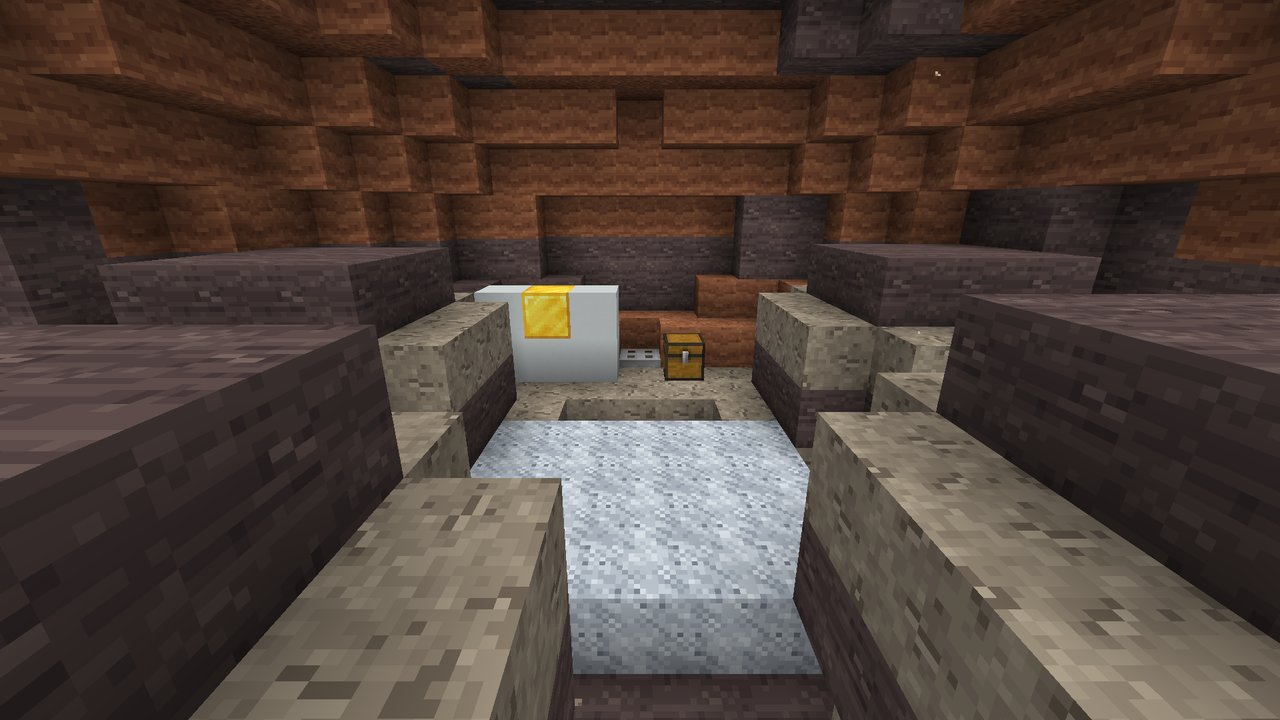
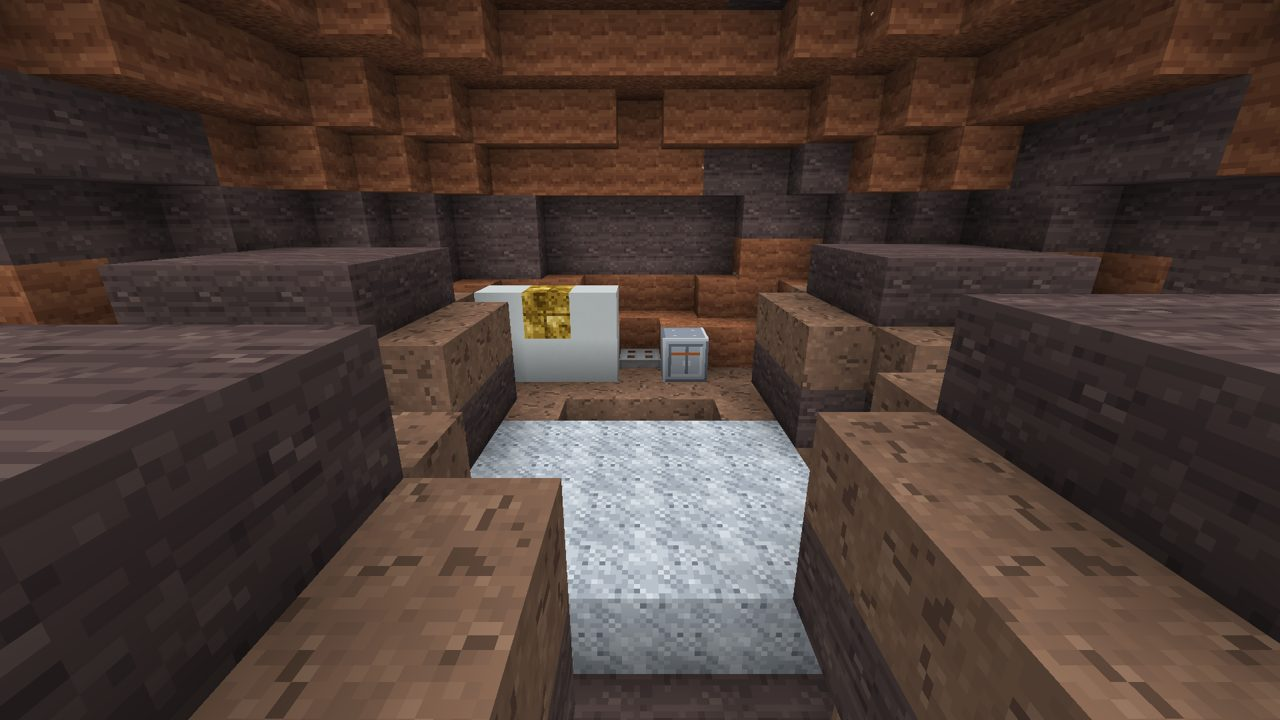
Mars riverbed cave and lava tubes: survey gear and lockers
The riverbed probe's data vaults are supply locker and its wreck wears foil cladding; the old survey team's tripod floodlights stand round the chamber. Lava tubes keep an earlier survey's tripod floodlights every few nodes with cable laid between them, and a chain rope down the first skylight.

Changed region(s): [[0.0, 0.0917, 1.0, 1.0], [0.7812, 0.0917, 1.0, 0.4278], [0.5938, 0.0, 0.75, 0.0917]]

diff --git a/src/main/java/com/pizzaparker07/spacebreaker/content/mars/dungeon/RiverbedCavePiece.java b/src/main/java/com/pizzaparker07/spacebreaker/content/mars/dungeon/RiverbedCavePiece.java
@@ -4,6 +4,7 @@ import com.pizzaparker07.spacebreaker.content.mars.MarsModule;
 import com.pizzaparker07.spacebreaker.content.mars.entity.CanyonLurker;
 import com.pizzaparker07.spacebreaker.content.mars.entity.MarsEntities;
 import net.minecraft.core.BlockPos;
+import net.minecraft.core.Direction;
 import net.minecraft.nbt.CompoundTag;
 import net.minecraft.util.Mth;
 import net.minecraft.util.RandomSource;
@@ -276,7 +277,7 @@ public class RiverbedCavePiece extends StructurePiece {
             for (int dy = 0; dy < 2; dy++) {
                 p.set(wx + dx, floor + dy, wz);
                 if (box.isInside(p)) {
-                    level.setBlock(p, dy == 1 && dx == 1 ? s(Blocks.GOLD_BLOCK) : s(Blocks.WHITE_CONCRETE), Block.UPDATE_CLIENTS);
+                    level.setBlock(p, dy == 1 && dx == 1 ? s(com.pizzaparker07.spacebreaker.content.belt.LanderBlocks.GOLD_FOIL_CLADDING.get()) : s(Blocks.WHITE_CONCRETE), Block.UPDATE_CLIENTS);
                 }
             }
         }
@@ -290,16 +291,29 @@ public class RiverbedCavePiece extends StructurePiece {
         }
         chest(level, box, cx - 1, floor, cz + 5);
         chest(level, box, cx + 2, floor, cz - 5);
+        // the survey team's lights, still on their tripods round the chamber, and the cable between them
+        for (int[] l : new int[][]{{-4, -3}, {4, 2}, {-2, 6}}) {
+            int lx = cx + l[0];
+            int lz = cz + l[1];
+            p.set(lx, floor, lz);
+            if (box.isInside(p) && level.getBlockState(p).isAir()) {
+                level.setBlock(p, s(Blocks.IRON_BARS), Block.UPDATE_CLIENTS);
+                p.set(lx, floor + 1, lz);
+                level.setBlock(p, s(com.pizzaparker07.spacebreaker.content.rocketry.base.BaseBlocks.FLOODLIGHT.get())
+                        .setValue(net.minecraft.world.level.block.DirectionalBlock.FACING, Direction.UP), Block.UPDATE_CLIENTS);
+            }
+        }
     }
 
+    /** The probe's data vault: a supply locker, its doors to the open chamber. */
     private void chest(WorldGenLevel level, BoundingBox box, int x, int y, int z) {
         BlockPos pos = new BlockPos(x, y, z);
         if (!box.isInside(pos)) {
             return;
         }
-        level.setBlock(pos, s(Blocks.CHEST), Block.UPDATE_CLIENTS);
-        if (level.getBlockEntity(pos) instanceof net.minecraft.world.level.block.entity.ChestBlockEntity chest) {
-            chest.setLootTable(MarsLoot.RIVERBED_PROBE, seed ^ (x * 341873128712L + z));
+        level.setBlock(pos, com.pizzaparker07.spacebreaker.content.dungeons.locker.SupplyLocker.BLOCK.get().defaultBlockState(), Block.UPDATE_CLIENTS);
+        if (level.getBlockEntity(pos) instanceof com.pizzaparker07.spacebreaker.content.dungeons.locker.SupplyLockerBlockEntity locker) {
+            locker.setLootTable(MarsLoot.RIVERBED_PROBE, seed ^ (x * 341873128712L + z));
         }
     }
 

diff --git a/src/main/java/com/pizzaparker07/spacebreaker/content/mars/dungeon/LavaTubePiece.java b/src/main/java/com/pizzaparker07/spacebreaker/content/mars/dungeon/LavaTubePiece.java
@@ -155,6 +155,51 @@ public class LavaTubePiece extends StructurePiece {
                 skylight(level, box, r, i);
             }
         }
+        surveyGear(level, box);
+    }
+
+    /**
+     * An earlier survey's gear, left behind: tripod floodlights every few nodes along the floor with the cable laid
+     * between them, and a rope of chain hanging down the first skylight, the way they came in.
+     */
+    private void surveyGear(WorldGenLevel level, BoundingBox box) {
+        BlockPos.MutableBlockPos p = new BlockPos.MutableBlockPos();
+        int n = nodeCount();
+        for (int i = 2; i < n; i += 4) {
+            int x = nodes[i * 4] + 1;
+            int z = nodes[i * 4 + 2] + 1;
+            int fy = floor(i);
+            p.set(x, fy, z);
+            if (!box.isInside(p) || !level.getBlockState(p).isAir() || level.getBlockState(p.below()).isAir()) {
+                continue;
+            }
+            level.setBlock(p, s(Blocks.IRON_BARS), Block.UPDATE_CLIENTS);
+            p.set(x, fy + 1, z);
+            level.setBlock(p, s(com.pizzaparker07.spacebreaker.content.rocketry.base.BaseBlocks.FLOODLIGHT.get())
+                    .setValue(net.minecraft.world.level.block.DirectionalBlock.FACING, net.minecraft.core.Direction.UP), Block.UPDATE_CLIENTS);
+            // the cable back along the floor toward the previous light
+            if (i >= 4) {
+                int px = nodes[(i - 2) * 4] + 1;
+                int pz = nodes[(i - 2) * 4 + 2] + 1;
+                p.set(px, floor(i - 2), pz);
+                if (box.isInside(p) && level.getBlockState(p).isAir() && !level.getBlockState(p.below()).isAir()) {
+                    level.setBlock(p, s(Blocks.CHAIN).setValue(net.minecraft.world.level.block.ChainBlock.AXIS, net.minecraft.core.Direction.Axis.X), Block.UPDATE_CLIENTS);
+                }
+            }
+        }
+        for (int i = 0; i < n; i++) {
+            if (skylight(i)) {
+                int x = nodes[i * 4] + 2;
+                int z = nodes[i * 4 + 2];
+                for (int y = floor(i) + 3; y <= nodes[i * 4 + 3]; y++) {
+                    p.set(x, y, z);
+                    if (box.isInside(p) && level.getBlockState(p).isAir()) {
+                        level.setBlock(p, s(Blocks.CHAIN), Block.UPDATE_CLIENTS);
+                    }
+                }
+                break;
+            }
+        }
     }
 
     /** A collapsed patch of roof: an open shaft to the surface and a cone of rubble and dust below it. */

diff --git a/src/testmod/java/com/pizzaparker07/spacebreaker/testmod/mars/MarsLifeGameTests.java b/src/testmod/java/com/pizzaparker07/spacebreaker/testmod/mars/MarsLifeGameTests.java
@@ -244,7 +244,14 @@ public final class MarsLifeGameTests {
         helper.assertTrue(piece.getBoundingBox().maxY() >= top, "the sinkhole reaches the surface");
         place(level, piece);
         helper.assertTrue(level.getBlockState(piece.chamber()).isAir(), "the chamber is open");
-        helper.assertTrue(lootChests(level, piece.getBoundingBox()) >= 1, "the probe wreck holds its data vault");
+        int vaults = 0;
+        BoundingBox cb = piece.getBoundingBox();
+        for (BlockPos p : BlockPos.betweenClosed(cb.minX(), cb.minY(), cb.minZ(), cb.maxX(), cb.maxY(), cb.maxZ())) {
+            if (level.getBlockEntity(p) instanceof com.pizzaparker07.spacebreaker.content.dungeons.locker.SupplyLockerBlockEntity l && l.getLootTable() != null) {
+                vaults++;
+            }
+        }
+        helper.assertTrue(vaults >= 1, "the probe wreck holds its data vault, a supply locker");
         helper.succeed();
     }
 

diff --git a/docs/CONTENT.md b/docs/CONTENT.md
@@ -165,9 +165,9 @@ Her içerik paketi gerçek istemcide vitrin dünyasında fotoğraflanır; onayda
 | 🎨 | Mevsimsel basınç döngüsü | hava kutup başlıklarına donup geri süblimleştikçe Mars'ın basıncı yıl boyunca değişir (Viking ölçümleri gibi): güney kışında Ls≈160 −%13, güney yazında Ls≈265 +%13; `Environment.pressureKpa` üzerinden HUD ve Çevre Sensörü gösterir |
 | 🎨 | Su buzu bulutları ve kanyon sisi | Viking gözlemleri gibi: Büyük Yarık Kanyonu tabanında gün doğumundan hemen sonra ince, soluk pembemsi-ten sis (en yoğun anda ~80 blok görüş; tabanda dolu, ~30 blok yukarıda biter, alçak gök de puslanır, kuşluğa doğru dağılır); afelyon mevsiminde (Ls≈95 ±28°) ekvator üzerinde ince, tüy gibi mavimsi-beyaz bulut şeritleri (kodla çizilmiş 256 px doku, yumuşak kenarlar, düşük opaklık, yavaş sürüklenir); yalnızca istemci, shader güvenli; mevsim sunucudan istemciye senkron |
 | 🎨 | Mars göğünde Dünya ve Ay | gökyüzü efemerisinden gerçek konumda: Dünya parlak mavi-beyaz sabah/akşam yıldızı, Ay yanında sönük ayrı bir nokta (çakışınca gerçek yönde ayrılır); Phobos/Deimos yalnızca Mars göğünün kendi diskleri olarak (çift çizim giderildi, moon) |
-| 🎨 | Zindanlar | Terk Edilmiş Mars Araştırma İstasyonu (yeniden tasarım: kaburgalı kubbe ve dört sekizgen kesitli basınçlı tüp; iç mekân: alüminyum panel duvarlar, tavan boyunca kablo ve boru kanalları, yanan LED paneller ve sönük lambalar, duvara gömülü Malzeme Dolapları (sandık yerine), iki hava kilidi kapısı; merkezde oksijen dağıtıcı; sera, araştırma laboratuvarı tezgâhı, güç monitörü, Sabatier reaktörü ve atmosfer işlemcili laboratuvar + ISRU kontrolü, fırtınanın delip toz doldurduğu garaj; modüller arazinin üstüne oturur: yakın zeminde regolit set, derinde gri ayaklar; batı duvarlarına yığılmış toz, kum basmış güneş dizisi ve kablosu, yakıt tanklarına boru köprüsü, ayaklı iniş pisti ve devrilmiş kargo kızağı, sondaj kulesi; 'Sol 412' son kayıt tabelası), Antik Gömülü Nehir Yatağı (katmanlı mağara, kil yatak, düşmüş sonda) |
+| 🎨 | Zindanlar | Terk Edilmiş Mars Araştırma İstasyonu (yeniden tasarım: kaburgalı kubbe ve dört sekizgen kesitli basınçlı tüp; iç mekân: alüminyum panel duvarlar, tavan boyunca kablo ve boru kanalları, yanan LED paneller ve sönük lambalar, duvara gömülü Malzeme Dolapları (sandık yerine), iki hava kilidi kapısı; merkezde oksijen dağıtıcı; sera, araştırma laboratuvarı tezgâhı, güç monitörü, Sabatier reaktörü ve atmosfer işlemcili laboratuvar + ISRU kontrolü, fırtınanın delip toz doldurduğu garaj; modüller arazinin üstüne oturur: yakın zeminde regolit set, derinde gri ayaklar; batı duvarlarına yığılmış toz, kum basmış güneş dizisi ve kablosu, yakıt tanklarına boru köprüsü, ayaklı iniş pisti ve devrilmiş kargo kızağı, sondaj kulesi; 'Sol 412' son kayıt tabelası), Antik Gömülü Nehir Yatağı (katmanlı mağara, kil yatak, düşmüş sonda; veri kasası Malzeme Dolabında, odanın çevresinde eski keşif ekibinin sehpalı ışıldakları) |
 | 🎨 | Kayıp İniş Aracı | ovalarda seyrek (≈1/km, gezici yolculuğu): dört açık bacak üstünde sekizgen gövde (altın folyo paneller), güneydoğu bacağı kırılmış ve gövde o köşeye çökmüş; batı güneş kanadı açık, doğu kanadı kopup toza düşmüş; üst güvertede kamera direği ve anten çanağı; yanı yırtılmış panelden görünen veri kaydedici; doğudan sekerek gelişin kızak izleri, kenarı üstünde yarı gömülü ısı kalkanı, batı yanına yığılmış toz, toza serilmiş turuncu-beyaz paraşüt; veri kaydedicide uzay sondaları / Mars jeolojisi / derin uzay ağı diski, deney verisi |
-| 🎨 | Lav tüpleri | volkan ve ova altında doğal tüneller (bazalt kabuk, cilalı lav astarı, olivin kumlu taban), çökmüş ışıklıklardan girilir; 5+ blok tavan radyasyonu 1/32'nin altına düşürür: hazır üs yeri |
+| 🎨 | Lav tüpleri | volkan ve ova altında doğal tüneller (bazalt kabuk, cilalı lav astarı, olivin kumlu taban), çökmüş ışıklıklardan girilir; 5+ blok tavan radyasyonu 1/32'nin altına düşürür: hazır üs yeri; eski bir keşfin bıraktığı ekipman: birkaç düğümde bir sehpalı ışıldak, aralarında yere serilmiş kablo, ilk tavan deliğinden sarkan zincir ip |
 | 🎨 | Kutup katmanlı tortuları | temiz buz arasında düzensiz aralıklı ince toz bantları (12 blokta 1–3), kutup oluklarının duvarlarında görünür |
 | 🎨 | Endüstri girdileri | kırıcıda: Perkloratlı Toprak → Perklorat Tuzu (`c:dusts/perchlorate`, oksijen kaynağı); Mars/tozlu/krater buzu → buz (`c:ices/water`, eriyip elektroliz suyu olur) |
 
